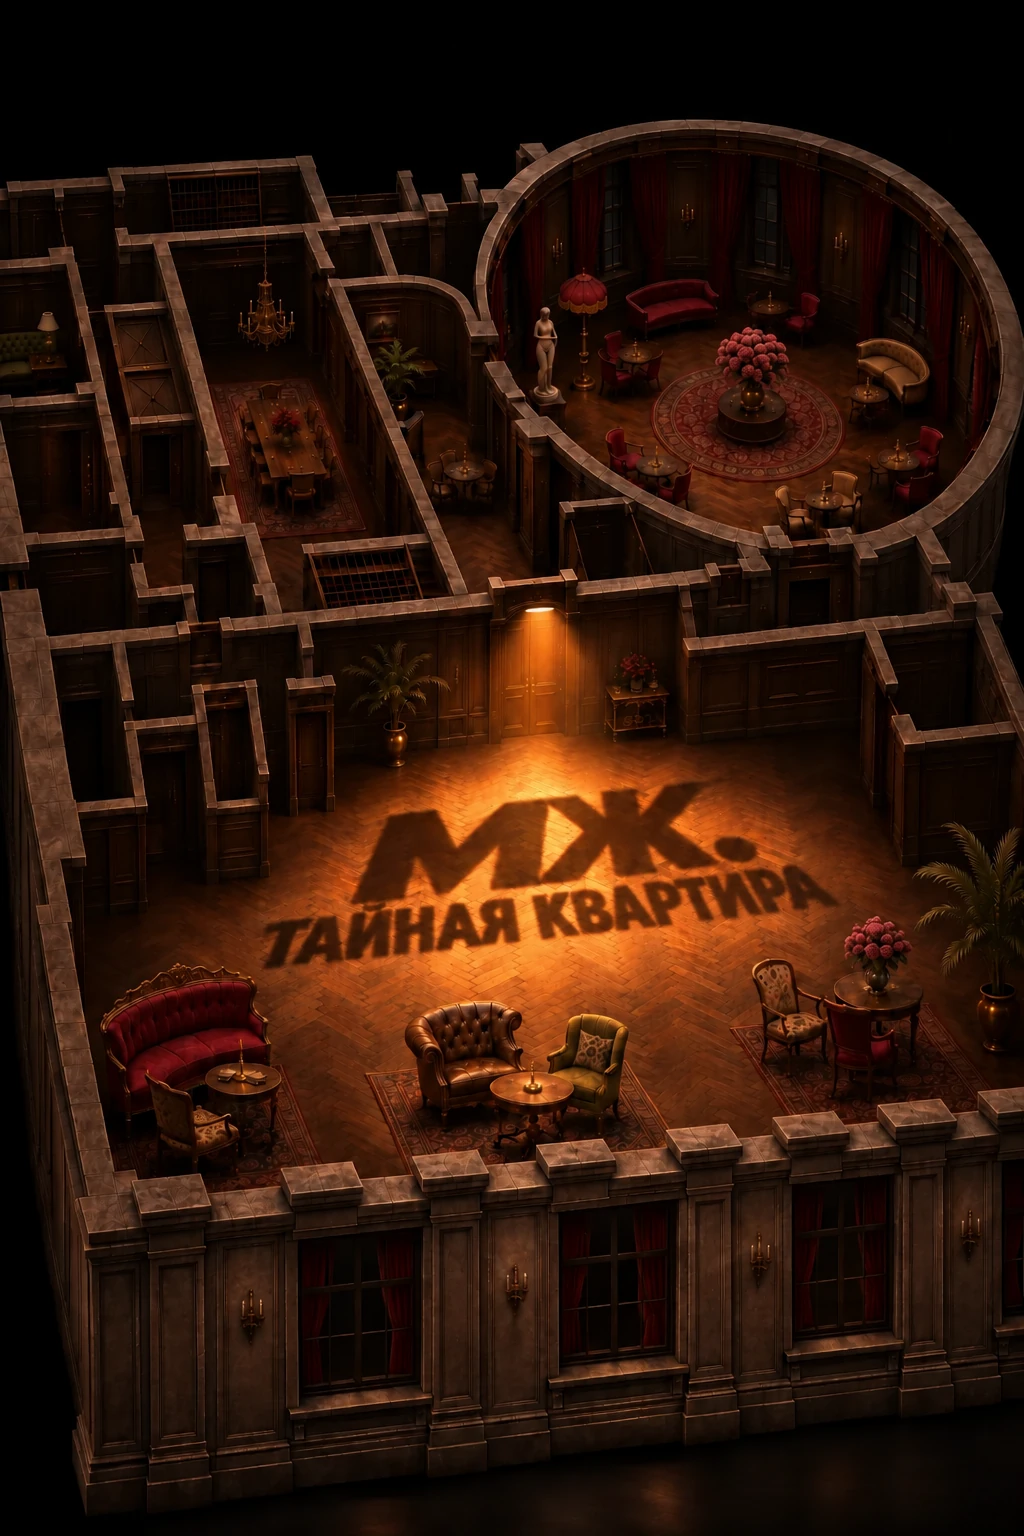
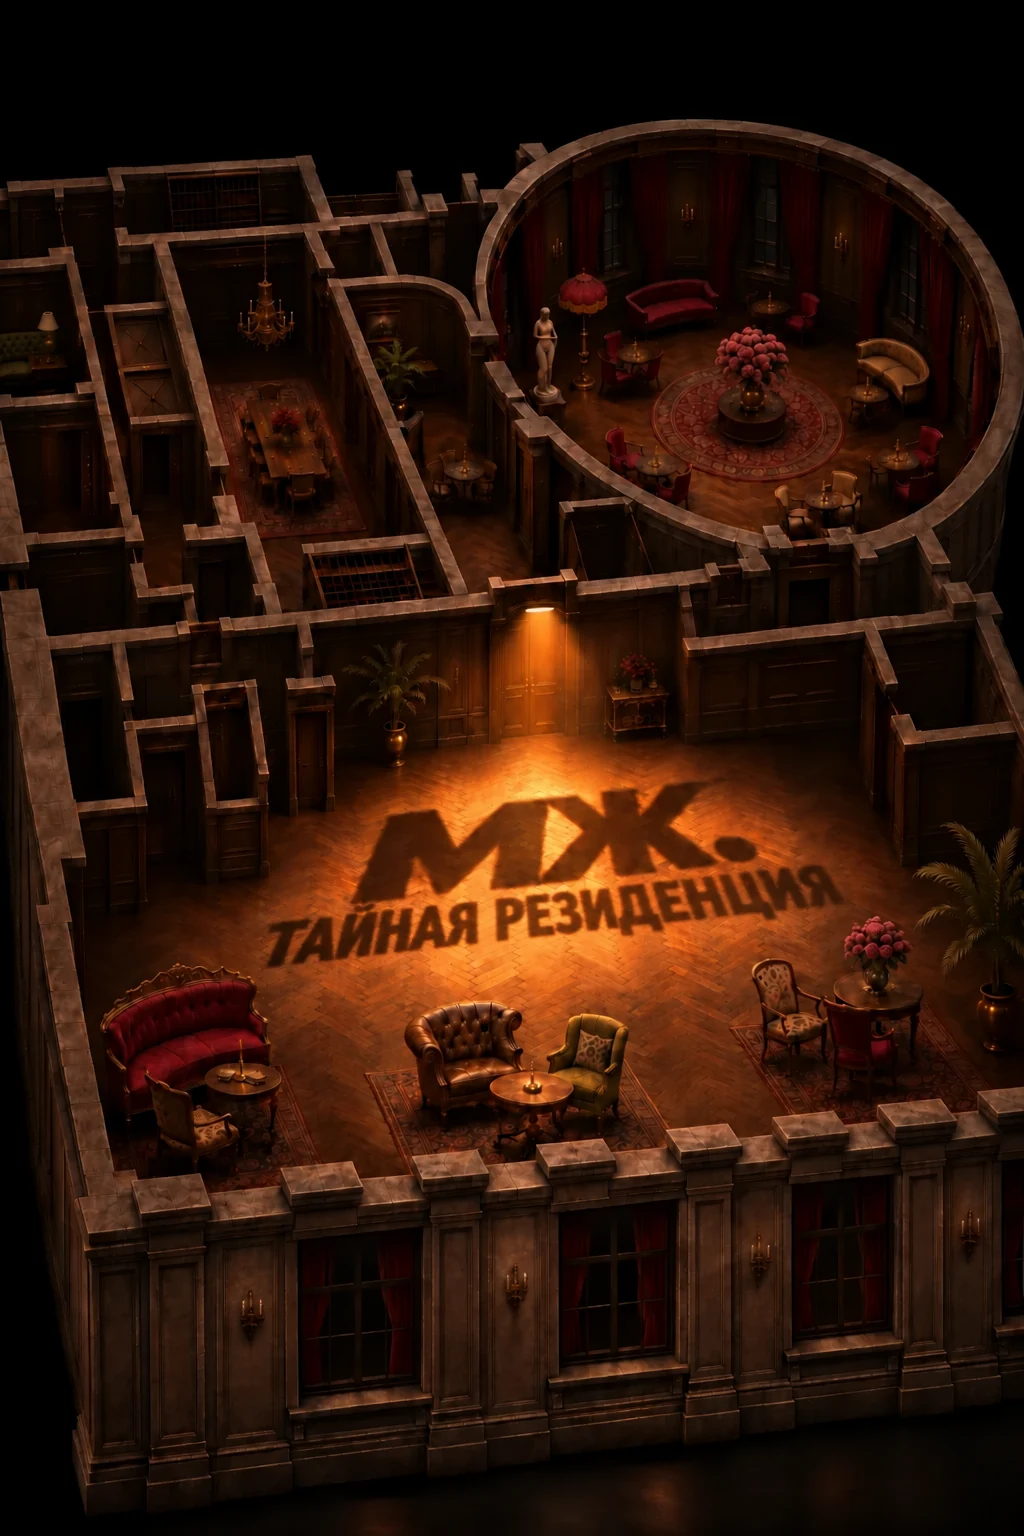
Rename secret apartment to secret residence across site and animation

Changed region(s): [[0.2812, 0.5625, 0.8125, 0.625]]

diff --git a/app/FestivalApartment.tsx b/app/FestivalApartment.tsx
@@ -38,7 +38,7 @@ function Door({ room, index }: { room: typeof rooms[number]; index: number }) {
 
 export default function FestivalApartment() {
   return <section className={`${styles.apartment} section primary-section`} id="apartment"><div className="container">
-    <div className={styles.intro}><p className="section-label">02 / Тайная квартира · шесть дверей</p><h2>Выберите, с какой двери<br /><em>начнётся ваш вечер</em></h2><p>С Невского — в тайную квартиру МЖ. За дверями ждут выступления, личные разговоры, знакомства, выставка и музыка.</p><p className={styles.touchHint}>Прикоснитесь к двери, чтобы открыть</p></div>
+    <div className={styles.intro}><p className="section-label">02 / Тайная резиденция · шесть дверей</p><h2>Выберите, с какой двери<br /><em>начнётся ваш вечер</em></h2><p>С Невского — в тайную резиденцию МЖ. За дверями ждут выступления, личные разговоры, знакомства, выставка и музыка.</p><p className={styles.touchHint}>Прикоснитесь к двери, чтобы открыть</p></div>
     <FestivalCarousel label="Откройте двери фестиваля" className="apartment-carousel">{rooms.map((room, index) => <Door room={room} index={index} key={room.id} />)}</FestivalCarousel>
     <p className={styles.note}>Открывайте двери и выбирайте свой маршрут. На фотографиях — реальные интерьеры площадки; распределение программы по залам уточняется.</p>
   </div></section>;

diff --git a/app/FestivalHero.tsx b/app/FestivalHero.tsx
@@ -54,7 +54,7 @@ export default function FestivalHero() {
       <div className={styles.shade} data-hero-shade aria-hidden="true" />
       <div className={styles.copy} data-hero-offer>
         <p className={styles.eyebrow}>Частный вечер в сердце Петербурга</p>
-        <h1 id="festival-title" className={styles.title} ref={offerHeading} tabIndex={-1}>МЖ Сити.<br /><em>Тайная квартира</em></h1>
+        <h1 id="festival-title" className={styles.title} ref={offerHeading} tabIndex={-1}>МЖ Сити.<br /><em>Тайная резиденция</em></h1>
         <p className={styles.subtitle}>Фестиваль отношений с собой, с людьми и с жизнью</p>
         <p className={styles.lead}>Выступления о близости и выборе, личные консультации, выставка и новые знакомства. Бар и афтепати — до полуночи.</p>
         <div className={styles.facts} aria-label="Дата, место и стоимость участия">

diff --git a/app/HeroAnimation.tsx b/app/HeroAnimation.tsx
@@ -37,7 +37,7 @@ export default function HeroAnimation({ landing = "complete", paused = false, on
 
   return (
     <div className="festival-intro">
-      <div ref={art} className="eco-hero-art" data-landing={landing} data-paused={paused} role="img" aria-label="Тайная квартира МЖ: хрустальная люстра, золотая надпись и тёплый свет вечерних залов.">
+      <div ref={art} className="eco-hero-art" data-landing={landing} data-paused={paused} role="img" aria-label="Тайная резиденция МЖ: хрустальная люстра, золотая надпись и тёплый свет вечерних залов.">
         {["dark", "impact", "zone-1", "zone-2", "zone-3", "zone-4"].map((scene, index) => (
           <picture className={`eco-scene ${index === 0 ? "eco-scene-dark" : index === 1 ? "eco-scene-impact" : `eco-zone eco-${scene}`}`} key={scene}>
             <source media="(max-width: 760px)" srcSet={`/hero/secret-room-mobile-${index === 0 ? "dark" : "stage"}-room.webp`} />

diff --git a/app/page.tsx b/app/page.tsx
@@ -191,7 +191,7 @@ export default function Home() {
 
       <footer>
         <div className="container footer-grid">
-          <div><strong>МЖ</strong><p>МЖ Сити. Тайная квартира.<br />Фестиваль 3 декабря</p></div>
+          <div><strong>МЖ</strong><p>МЖ Сити. Тайная резиденция.<br />Фестиваль 3 декабря</p></div>
           <div><span>Задать вопрос</span><a href="tel:+79625759813">8 962 575-98-13</a><a href={telegramUrl} target="_blank" rel="noreferrer">Telegram: @redheadlitle</a><a href="mailto:noname.eventspb@gmail.com">noname.eventspb@gmail.com</a></div>
           <div><span>Адрес фестиваля МЖ</span><p>«{event.venue}»<br />{event.city}, {event.address}<br />Метро «{event.metro}»<br />{event.dateLabel} · {event.timeLabel}</p></div>
         </div>

diff --git a/app/layout.tsx b/app/layout.tsx
@@ -14,7 +14,7 @@ import "./globals.css";
 import "./visual-overrides.css";
 
 export const metadata: Metadata = {
-  title: `МЖ Сити. Тайная квартира — фестиваль отношений | ${event.dateLabel}, ${event.city}`,
+  title: `МЖ Сити. Тайная резиденция — фестиваль отношений | ${event.dateLabel}, ${event.city}`,
   description: `${event.name}: ${event.dateLabel}, ${event.timeLabel}. «${event.venue}», ${event.city}, ${event.address}. Метро «${event.metro}». Отношения с собой, с людьми и с жизнью. Спикеры, бесплатная консультационная зона, знакомства, выставка и афтепати.`,
   keywords: [
     "фестиваль отношений Санкт-Петербург",

diff --git a/REVIEW.md b/REVIEW.md
@@ -6,7 +6,7 @@
 
 ## Структура страницы
 
-Согласованная последовательность из 15 блоков: приглашение в «МЖ Сити. Тайная квартира»; личный вопрос; колесо жизненного баланса и открывающиеся двери квартиры; спикеры; консультации; выставка и экспозона; знакомства; подарки; бар; афтепати; предыдущий фестиваль; партнёры; площадка; тарифы с условиями участия; заявка и промокод. Тест «Код связи» полностью удалён по просьбе пользователя.
+Согласованная последовательность из 15 блоков: приглашение в «МЖ Сити. Тайная резиденция»; личный вопрос; колесо жизненного баланса и открывающиеся двери резиденции; спикеры; консультации; выставка и экспозона; знакомства; подарки; бар; афтепати; предыдущий фестиваль; партнёры; площадка; тарифы с условиями участия; заявка и промокод. Тест «Код связи» полностью удалён по просьбе пользователя.
 
 Колесо содержит восемь направлений для размышления о своей жизни. Кнопки меняют описание и предлагают переход к нужному формату. Это навигация по интересам, без диагностических баллов и сбора ответов. Шесть дверей раскрывают фотографии реальной площадки, описание активности и ссылку к соответствующему разделу. Это интерактивное знакомство с программой, а не утверждённая схема помещений.
 
@@ -57,9 +57,9 @@ TypeScript, статическая сборка, одиннадцать пров
 
 ## Сверка двух таблиц и обновление визуала от 12 ноября
 
-Состав программы и экспозоны сверён с таблицами «МЖ Сити, Тайная квартира» и декабрьской дорожной картой. Елена Солнечная снята с афиши по прямому указанию организатора: нет в спикерах, экспозоне и практиках. Участие Елены Забановой и Арины Казанских не опубликовано. Раздел `/gifts/` оставлен без изменений, как отдельно просил пользователь для владельцев ранее купленных билетов. Новые архивные и предварительные темы из таблиц не объявлены согласованными. Три темы, предоставленные пользователем напрямую, сохранены. Для Татьяны Щербаковой добавлен подтверждаемый анкетой факт; для Яны Якушевой и Ольги Цвик уточнено описание из экспо-анкет. Три участницы выставки — украшения Яны Якушевой, ароматы Ольги Цвик и халаты Юлии Кропивницкой — получили отдельную визуальную витрину. Показ мод не объявлен подтверждённым.
+Состав программы и экспозоны сверён с таблицами «МЖ Сити, Тайная резиденция» и декабрьской дорожной картой. Елена Солнечная снята с афиши по прямому указанию организатора: нет в спикерах, экспозоне и практиках. Участие Елены Забановой и Арины Казанских не опубликовано. Раздел `/gifts/` оставлен без изменений, как отдельно просил пользователь для владельцев ранее купленных билетов. Новые архивные и предварительные темы из таблиц не объявлены согласованными. Три темы, предоставленные пользователем напрямую, сохранены. Для Татьяны Щербаковой добавлен подтверждаемый анкетой факт; для Яны Якушевой и Ольги Цвик уточнено описание из экспо-анкет. Три участницы выставки — украшения Яны Якушевой, ароматы Ольги Цвик и халаты Юлии Кропивницкой — получили отдельную визуальную витрину. Показ мод не объявлен подтверждённым.
 
-В четырёх кадрах первого экрана встроенное в изображение название исправлено с «Тайная комната» на «Тайная квартира»: освещённая и тёмная сцены, широкая и мобильная композиции. Отдельная кнопка паузы убрана, кнопка пропуска анимации сохранена. Оффер получил более выразительную типографику. Шесть дверей получили заметный замок с анимацией при наведении и фокусе; декоративные стрелки-глифы в основном сайте убраны. Функциональные кнопки каруселей с векторными стрелками сохранены для навигации.
+В четырёх кадрах первого экрана встроенное в изображение название исправлено с «Тайная комната» на «Тайная резиденция»: освещённая и тёмная сцены, широкая и мобильная композиции. Отдельная кнопка паузы убрана, кнопка пропуска анимации сохранена. Оффер получил более выразительную типографику. Шесть дверей получили заметный замок с анимацией при наведении и фокусе; декоративные стрелки-глифы в основном сайте убраны. Функциональные кнопки каруселей с векторными стрелками сохранены для навигации.
 
 ## Новые портреты для предварительного просмотра
 
